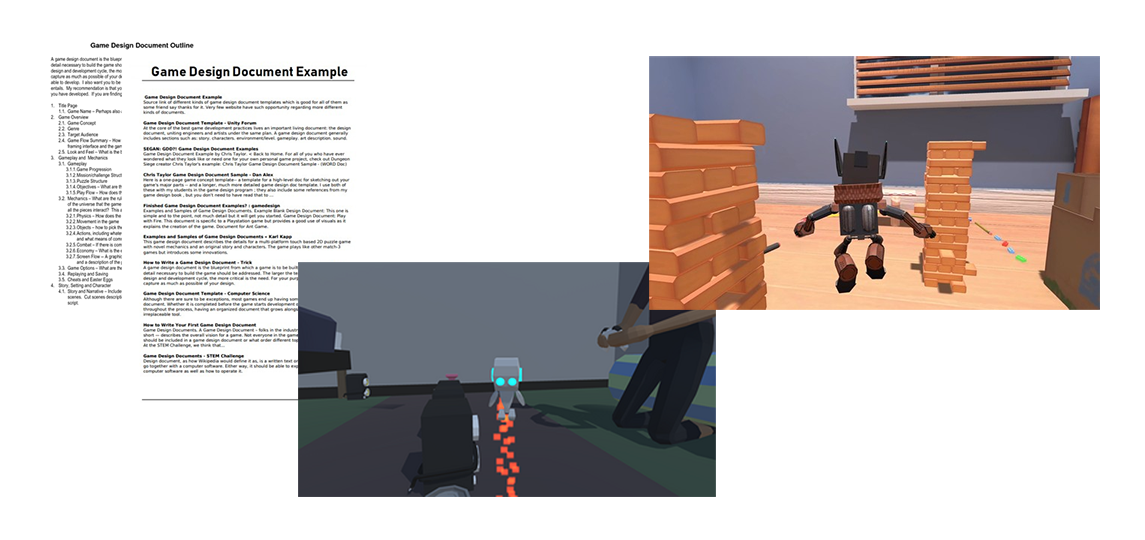
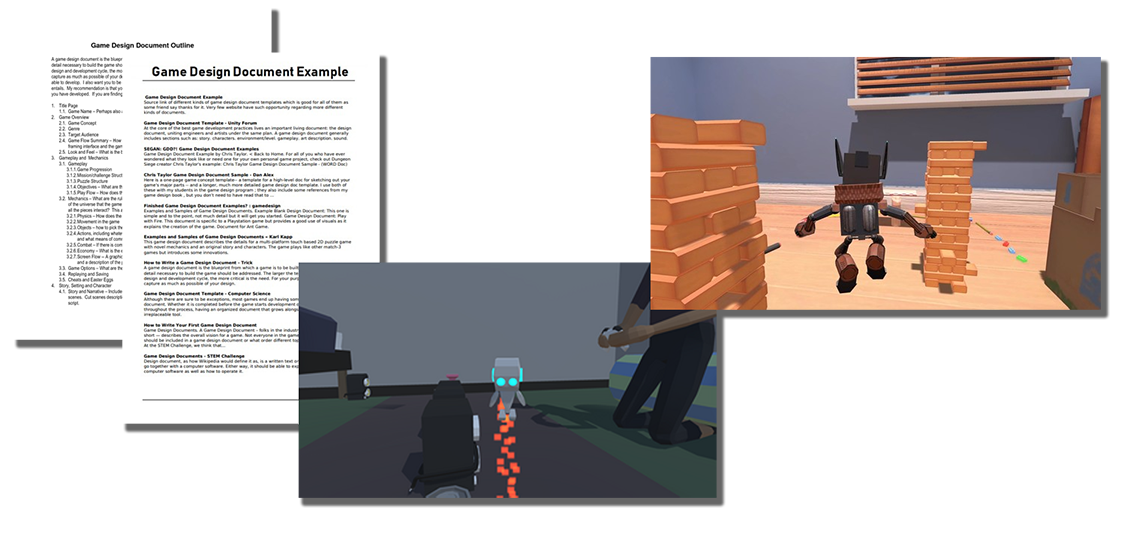
Drop Shadow Image

diff --git a/index.html b/index.html
@@ -28,15 +28,17 @@
 		<a style="float:right" href="contact.html">Contact Us</a>
 	</div>
 
-	<h1 class="justify">Home Page</h1>
+	<h1 class="justify">Rapid Application Development</h1>
 
 	<p class="justify">
 		<img src="/img/rapid-prototype-example.png">
 	</p>
-	
-	<p class="justify-image">Then let's begin. Use the panel on the left to select a visually compatible pair of fonts & preview them here.
+
+	<p class="justify">
+		Then let's begin. Use the panel on the left to select a visually compatible pair of fonts & preview them here.
 		You can pick more fonts for specific headings etc later on. Save your favourite font pairs for later using the
-		heart.</p>
+		heart.
+	</p>
 
 </body>
 

diff --git a/css/style.css b/css/style.css
@@ -27,6 +27,7 @@ h1
 {
   color: var(--alice-blue);
   font-family: 'Montserrat', sans-serif;
+  font-size: 300%;
   padding: 2%;
   padding-bottom: 0.2%;
 }
@@ -86,5 +87,5 @@ p
 
 .drop-shadow
 {
-  
+  box-shadow: 5px 5px black;
 }
